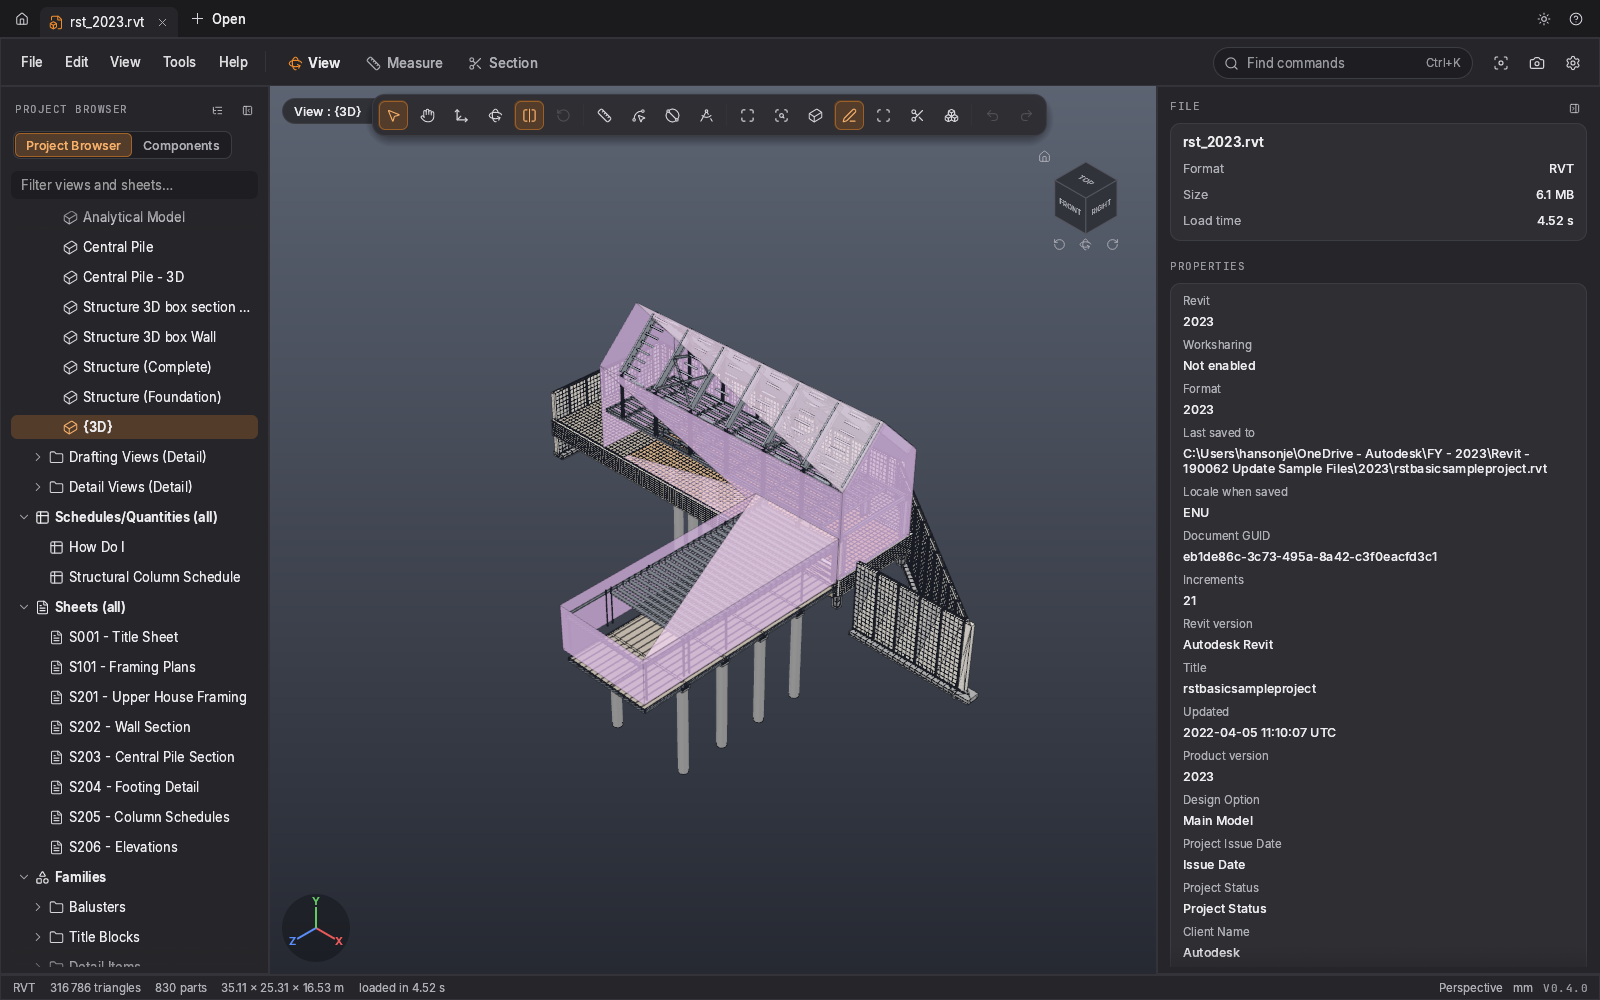
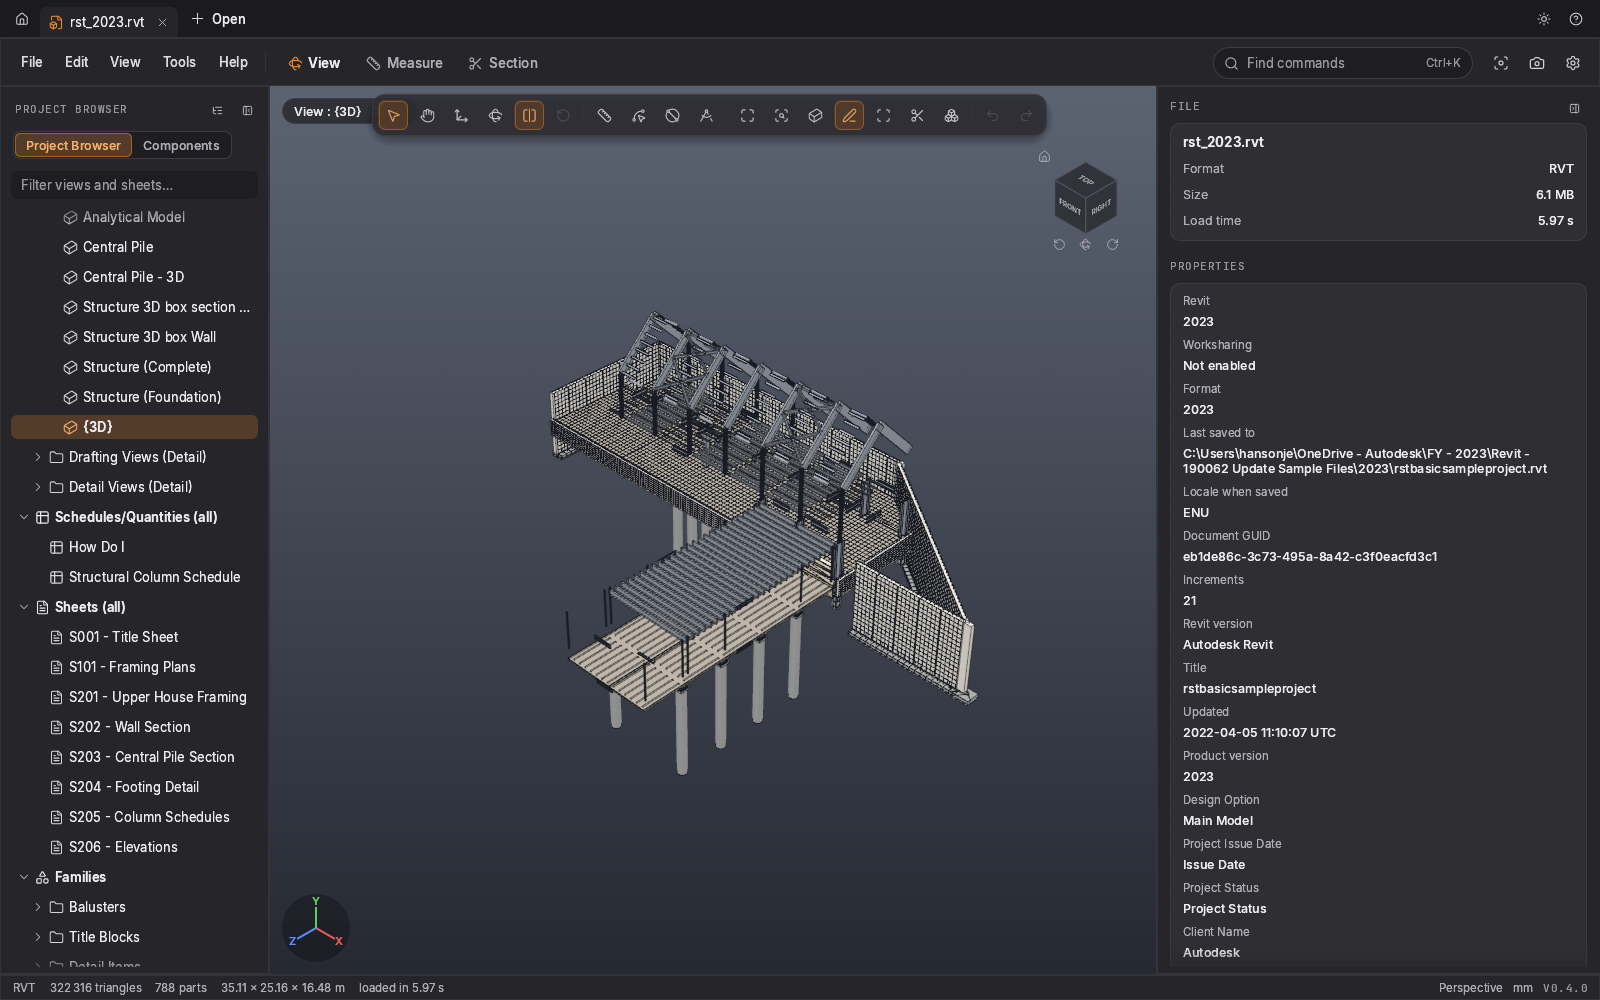
fix Revit view visibility in 3D
Track hidden categories and elements for each Revit view, apply them in the viewer, and include visibility in the view toggle.

Changed region(s): [[0.3438, 0.31, 0.625, 0.713], [0.0938, 0.961, 0.125, 0.992], [0.0312, 0.961, 0.0625, 0.992]]

diff --git a/crates/craft-formats/src/rvt.rs b/crates/craft-formats/src/rvt.rs
@@ -327,10 +327,15 @@ pub fn load(path: &Path, opts: &crate::Options) -> Result<Scene, String> {
             s.view_frames = sheets.frames(lo, hi).into_iter().filter(|f| rows.contains(&f.id)).collect();
         }
     }
+    let mut owners = Vec::new();
     let (n, shaped) = match &boxes {
-        Ok(b) => build_boxes(&mut s, b, &meshes, family),
+        Ok(b) => build_boxes(&mut s, b, &meshes, family, &mut owners),
         Err(_) => (0, 0),
     };
+    // what each view does not show: its switched-off categories and hidden elements
+    for f in &mut s.view_frames {
+        f.hide = owners.iter().filter(|&&(_, id, cat)| sheets.view_hides(f.id, id, cat)).map(|&(c, _, _)| c).collect();
+    }
     if n > 0 {
         props.push(("Éléments 3D".into(), format!("{n} dont {shaped} en forme reconstruite, {} en boîte englobante", n - shaped)));
         s.warnings.push(if shaped == n { WARN_SHAPES } else { WARN_SHAPES_PARTIAL }.into());
@@ -401,8 +406,9 @@ const ZONES: f64 = 16.0;
 
 /// One group component per category with its elements (or zones) below; an element with a
 /// rebuilt shape in `shapes` (by id) gets it, the others their box. Returns the number of
-/// elements and how many have their shape.
-fn build_boxes(s: &mut Scene, boxes: &[rvt_model::ElemBox], shapes: &std::collections::HashMap<i64, crate::rvt_shape::Mesh>, family: bool) -> (usize, usize) {
+/// elements and how many have their shape. `owners` gets (component, element id, category) of each
+/// element and zone (element id 0) component.
+fn build_boxes(s: &mut Scene, boxes: &[rvt_model::ElemBox], shapes: &std::collections::HashMap<i64, crate::rvt_shape::Mesh>, family: bool, owners: &mut Vec<(usize, i64, i64)>) -> (usize, usize) {
     let t = std::time::Instant::now();
     type Cat<'a> = (Vec<&'a rvt_model::ElemBox>, [f32; 4]);
     let mut by: std::collections::BTreeMap<&'static str, Cat> = Default::default();
@@ -446,6 +452,7 @@ fn build_boxes(s: &mut Scene, boxes: &[rvt_model::ElemBox], shapes: &std::collec
                     s.meshes.push(sw_format::SceneMesh { name: name.to_string(), mesh, source: sw_format::MeshSource::Embedded, color: Some(color) });
                     let mut c = crate::component(&format!("{name} {}", k + 1), 2, Some(group), false, Some(s.meshes.len() - 1));
                     c.world = [1., 0., 0., 0., 0., 1., 0., 0., 0., 0., 1., 0., 0., 0., 0., 1.];
+                    owners.push((s.components.len(), b.id, b.category));
                     s.components.push(c);
                     shaped += 1;
                     continue;
@@ -453,9 +460,11 @@ fn build_boxes(s: &mut Scene, boxes: &[rvt_model::ElemBox], shapes: &std::collec
                 let (o, sz) = rvt_model::box_extent(b);
                 let mut c = crate::component(&format!("{name} {}", k + 1), 2, Some(group), false, Some(mi));
                 c.world = [sz[0], 0., 0., 0., 0., sz[1], 0., 0., 0., 0., sz[2], 0., o[0], o[1], o[2], 1.];
+                owners.push((s.components.len(), b.id, b.category));
                 s.components.push(c);
             }
         } else {
+            // zones mix the elements of a category name: they follow its first element's category
             let mut zones: std::collections::BTreeMap<[i32; 3], (Vec<[f32; 3]>, Vec<[u32; 3]>, usize)> = Default::default();
             for b in &list {
                 let key: [i32; 3] = std::array::from_fn(|a| (((b.min[a] + b.max[a]) * 0.5 - lo[a]) / cell[a]).floor().clamp(0.0, ZONES - 1.0) as i32);
@@ -473,6 +482,7 @@ fn build_boxes(s: &mut Scene, boxes: &[rvt_model::ElemBox], shapes: &std::collec
             for (k, (_, (pos, tri, count))) in zones.into_iter().enumerate() {
                 let mesh = sw_format::mesh::build_from_triangles(&pos, &tri, 30.0, true);
                 s.meshes.push(sw_format::SceneMesh { name: name.to_string(), mesh, source: sw_format::MeshSource::Embedded, color: Some(color) });
+                owners.push((s.components.len(), 0, list[0].category));
                 s.components.push(crate::component(&format!("{name} - zone {} ({count})", k + 1), 2, Some(group), false, Some(s.meshes.len() - 1)));
             }
         }

diff --git a/crates/swcraft/src/document.rs b/crates/swcraft/src/document.rs
@@ -143,7 +143,10 @@ pub struct Document {
     /// What the opened Revit view keeps of the model (crop region, plan view range, depth
     /// clips, 3D section box), display space: (axes, lower bounds, upper bounds).
     pub view_clip: Option<([[f32; 3]; 3], [f32; 3], [f32; 3])>,
-    /// Show the whole model while a view is open (the view clip is ignored).
+    /// Components the opened Revit view does not show (its switched-off categories and hidden
+    /// elements).
+    pub view_hide: std::collections::HashSet<usize>,
+    /// Show the whole model while a view is open (the view clip and `view_hide` are ignored).
     pub view_clip_off: bool,
     pub needs_fit: bool,
     pub cam_goal: Option<(f32, f32)>,
@@ -309,6 +312,7 @@ impl Document {
             sheet_cam: (1.0, egui::Vec2::ZERO),
             view_box: None,
             view_clip: None,
+            view_hide: Default::default(),
             view_clip_off: false,
             needs_fit: true,
             cam_goal: None,
@@ -493,8 +497,9 @@ impl Document {
         // the view's own direction and crop region when the file gives them
         self.view_box = None;
         self.view_clip = None;
+        self.view_hide.clear();
         self.view_clip_off = false;
-        let id = self.scene.as_ref().and_then(|s| s.browser.get(row)).map_or(-1, |r| r.id);
+        let id =self.scene.as_ref().and_then(|s| s.browser.get(row)).map_or(-1, |r| r.id);
         let up_z = self.scene.as_ref().is_some_and(|s| s.up_z);
         let frame = self.scene.as_ref().and_then(|s| s.view_frames.iter().find(|f| f.id == id)).cloned();
         let model_view = matches!(kind, K::Plan | K::CeilingPlan | K::Section | K::Elevation | K::Detail | K::View3d);
@@ -514,7 +519,9 @@ impl Document {
                 let base: [f32; 3] = std::array::from_fn(|k| o.dot(ax[k]));
                 (ax.map(|a| a.to_array()), std::array::from_fn(|k| base[k] + c.lo[k]), std::array::from_fn(|k| base[k] + c.hi[k]))
             });
+            self.view_hide = f.hide.iter().copied().collect();
         }
+        self.update_visibility();
         if let Some(((y, p), ortho)) = goal {
             if ortho {
                 self.camera.ortho = true;
@@ -533,7 +540,9 @@ impl Document {
         self.view_ctx = None;
         self.view_box = None;
         self.view_clip = None;
+        self.view_hide.clear();
         self.view_clip_off = false;
+        self.update_visibility();
         self.cam_goal = Some((45f32.to_radians(), 35.264f32.to_radians()));
         self.needs_fit = true;
     }
@@ -718,9 +727,10 @@ impl Document {
         let Some(s) = &self.scene else { return };
         let n = s.components.len();
         let mut vis = vec![true; n];
+        let view_hides = self.view_ctx.is_some() && !self.view_clip_off;
         for i in 0..n {
             let c = &s.components[i];
-            let own = !c.suppressed && !self.hidden.get(i).copied().unwrap_or(false);
+            let own = !c.suppressed && !self.hidden.get(i).copied().unwrap_or(false) && !(view_hides && self.view_hide.contains(&i));
             vis[i] = own && c.parent.is_none_or(|p| p < i && vis[p]);
         }
         self.visible = vis;

diff --git a/crates/swcraft/src/viewer.rs b/crates/swcraft/src/viewer.rs
@@ -835,7 +835,7 @@ pub fn viewport(ui: &mut egui::Ui, doc: &mut Document, st: &Settings, gfx: Gfx<'
     if let Some(r) = doc.view_ctx.and_then(|i| doc.scene.as_ref().and_then(|s| s.browser.get(i))).cloned() {
         let label = browser_label(&r.label, r.kind);
         let g = ui.painter().layout_no_wrap(format!("{} : {label}", tr("Vue")), theme::medium(12.5), t.text);
-        let clips = doc.view_clip.is_some();
+        let clips = doc.view_clip.is_some() || !doc.view_hide.is_empty();
         let extra = if clips { 24.0 } else { 0.0 };
         let chip = Rect::from_min_size(rect.left_top() + vec2(12.0, 12.0), vec2(g.size().x + 44.0 + extra, 26.0));
         ui.painter().rect(chip, CornerRadius::same(13), t.card.gamma_multiply(0.94), Stroke::new(1.0, t.border), egui::StrokeKind::Inside);
@@ -844,14 +844,15 @@ pub fn viewport(ui: &mut egui::Ui, doc: &mut Document, st: &Settings, gfx: Gfx<'
         let cr = ui.interact(close, egui::Id::new(("leave-view", doc.id)), Sense::click()).on_hover_text(tr("Revenir à toute la maquette en 3D"));
         icons::paint(ui, close, "x", 13.0, if cr.hovered() { t.text } else { t.text_muted });
         if clips {
-            // Revit crop region / view range: hide what the view does not show, or show it all
+            // Revit crop region / view range / visibility: hide what the view does not show, or show it all
             let tog = Rect::from_center_size(egui::pos2(chip.right() - 39.0, chip.center().y), vec2(18.0, 18.0));
             let on = !doc.view_clip_off;
-            let tip = if on { tr("Afficher toute la maquette (ignorer cadrage et plage de vue)") } else { tr("Appliquer le cadrage et la plage de vue de la vue") };
+            let tip = if on { tr("Afficher toute la maquette (ignorer cadrage, plage de vue et visibilité de la vue)") } else { tr("Appliquer le cadrage, la plage de vue et la visibilité de la vue") };
             let tg = ui.interact(tog, egui::Id::new(("view-clip", doc.id)), Sense::click()).on_hover_text(tip);
             icons::paint(ui, tog, "scissors", 13.0, if on { t.accent } else if tg.hovered() { t.text } else { t.text_muted });
             if tg.clicked() {
                 doc.view_clip_off = on;
+                doc.update_visibility();
             }
         }
         if cr.clicked() {

diff --git a/crates/craft-formats/src/rvt_sheet.rs b/crates/craft-formats/src/rvt_sheet.rs
@@ -709,6 +709,12 @@ impl Sheets {
         lo.iter().chain(hi.iter()).any(|x| x.is_finite()).then_some(clip)
     }
 
+    /// Whether view `id` hides element `elem` of category `cat` (hidden in the view, or its
+    /// category switched off in the view's visibility settings).
+    pub fn view_hides(&self, id: i64, elem: i64, cat: i64) -> bool {
+        self.views.get(&id).is_some_and(|v| v.hidden_cats.contains(&cat) || (elem != 0 && v.hidden.contains(&elem)))
+    }
+
     /// How the views look at the model: direction and up of each view, and what it keeps of
     /// the model (crop region, plan view range, depth clips, 3D section box), with the box
     /// that encloses it clamped to the model's box `lo`..`hi` (metres).
@@ -760,7 +766,7 @@ impl Sheets {
                 };
                 vclip = Some(sw_format::ViewClip { orig: f32s(c.orig.map(|x| x * FEET)), axes: c.ax.map(f32s), lo: c.lo.map(far), hi: c.hi.map(far) });
             }
-            out.push(ViewFrame { id, dir: f32s(dir), up: f32s(up), region, clip: vclip });
+            out.push(ViewFrame { id, dir: f32s(dir), up: f32s(up), region, clip: vclip, hide: Vec::new() });
         }
         out.sort_by_key(|f| f.id);
         out

diff --git a/crates/swcraft/src/i18n_en.rs b/crates/swcraft/src/i18n_en.rs
@@ -507,8 +507,8 @@ pub static EN: &[(&str, &str)] = &[
     ("vue de démarrage", "starting view"),
     ("Voir la maquette en 3D", "Show the model in 3D"),
     ("Revenir à toute la maquette en 3D", "Back to the whole model in 3D"),
-    ("Afficher toute la maquette (ignorer cadrage et plage de vue)", "Show the whole model (ignore crop and view range)"),
-    ("Appliquer le cadrage et la plage de vue de la vue", "Apply the view's crop and view range"),
+    ("Afficher toute la maquette (ignorer cadrage, plage de vue et visibilité de la vue)", "Show the whole model (ignore the view's crop, view range and visibility)"),
+    ("Appliquer le cadrage, la plage de vue et la visibilité de la vue", "Apply the view's crop, view range and visibility"),
     ("Vue de démarrage du projet (Revit s'ouvre sur cette vue)", "Project starting view (Revit opens on this view)"),
     ("Contenu 2D (cartouche, vues placées, textes) pas encore lu", "2D content (title block, placed views, texts) not read yet"),
     ("double-clic pour ouvrir la vue", "double-click to open the view"),

diff --git a/crates/sw-format/src/lib.rs b/crates/sw-format/src/lib.rs
@@ -195,6 +195,9 @@ pub struct ViewFrame {
     /// What the view hides (crop region, plan view range, depth clip, 3D section box), when
     /// the file gives it: only the model inside this box is drawn.
     pub clip: Option<ViewClip>,
+    /// Components the view does not show (categories switched off in its visibility settings,
+    /// elements hidden in the view), as indices into [`Scene::components`].
+    pub hide: Vec<usize>,
 }
 
 /// An oriented box in model coordinates (metres, z up): a point `p` is kept when, for each
